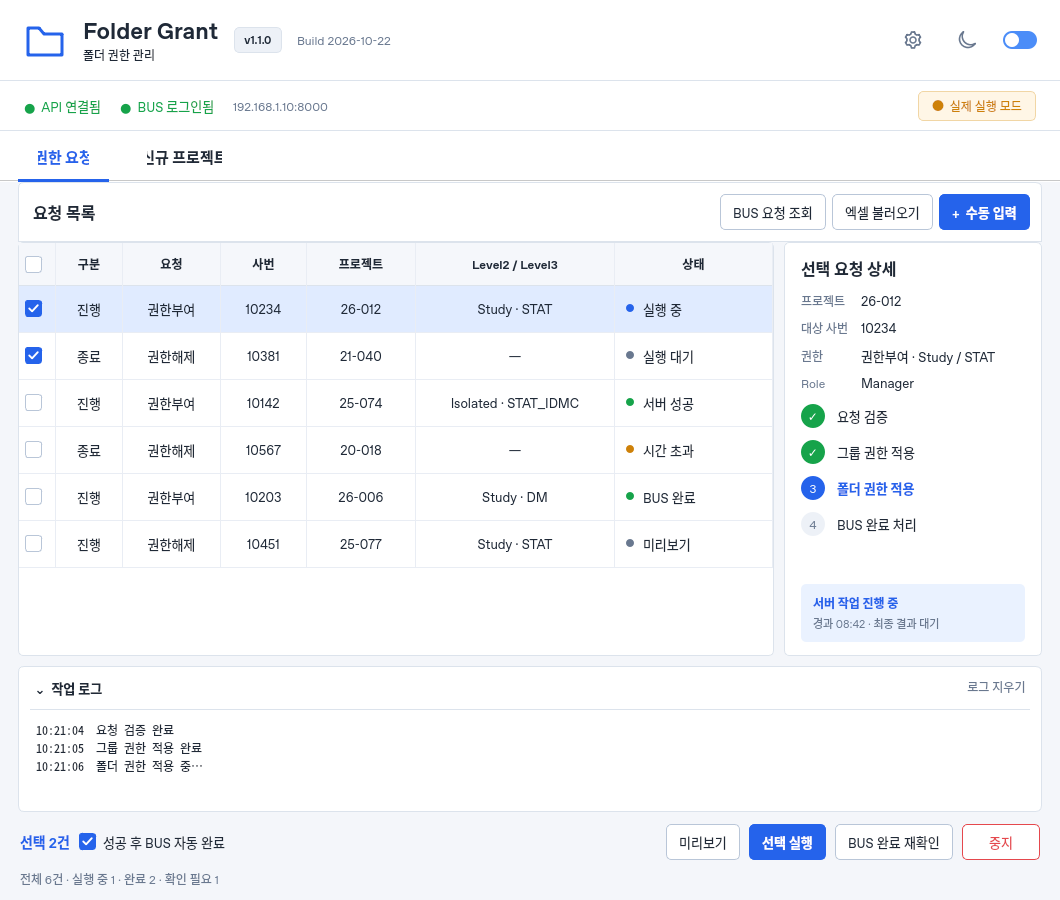
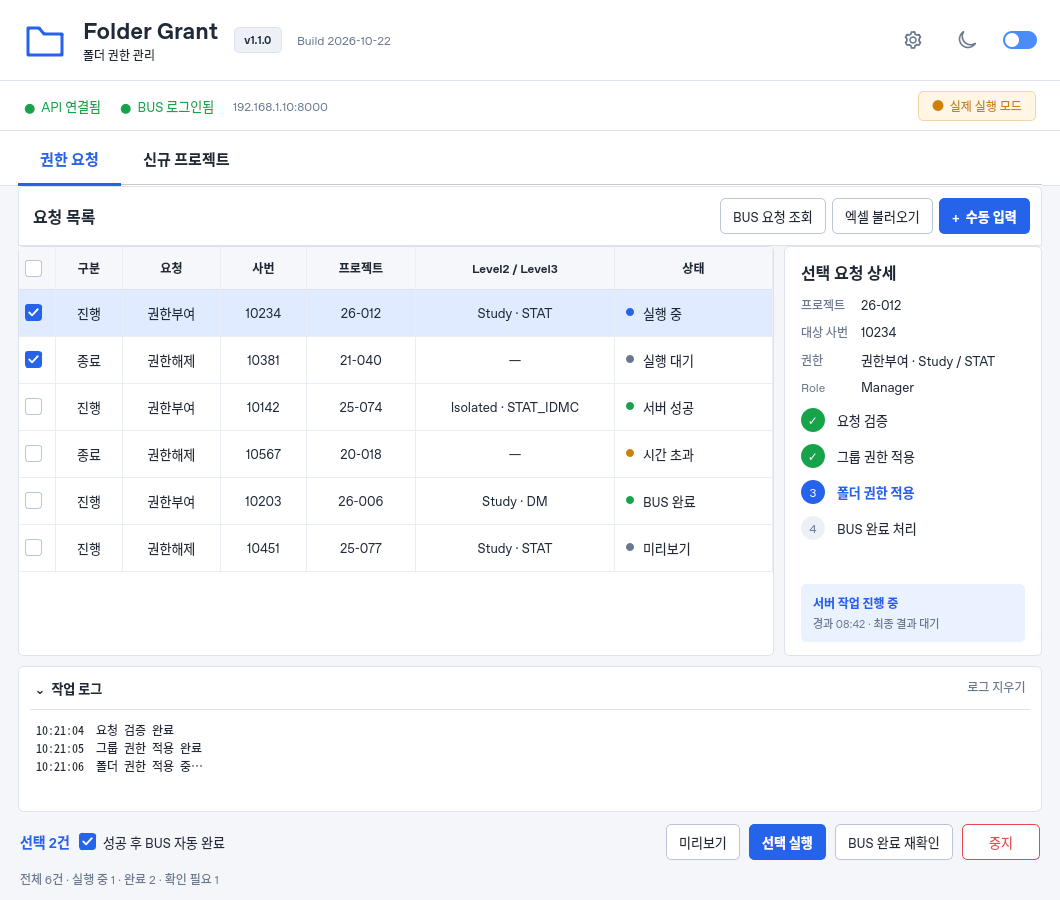
Fix workspace tab label clipping

diff --git a/Client/tests/test_ui_design.py b/Client/tests/test_ui_design.py
@@ -154,3 +154,13 @@ class DesignTests(unittest.TestCase):
         self.assertIn('실제',w.execution_mode_label.text())
         self.assertIn('연결됨',w.api_status_label.text())
         viewer.close()
+
+    def test_workspace_tab_metrics_use_the_same_font_as_the_painted_labels(self):
+        self.show()
+        tabs = self.window.tabs
+        self.assertEqual(tabs.font().pixelSize(),15)
+        self.assertEqual(tabs.elideMode(),self.m.Qt.ElideNone)
+        for index in range(tabs.count()):
+            with self.subTest(label=tabs.tabText(index)):
+                needed = tabs.fontMetrics().horizontalAdvance(tabs.tabText(index))+44
+                self.assertGreaterEqual(tabs.tabRect(index).width(),needed)
